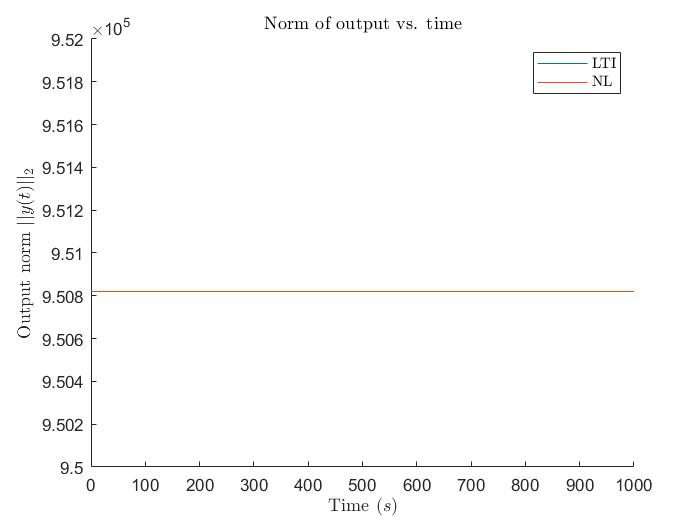
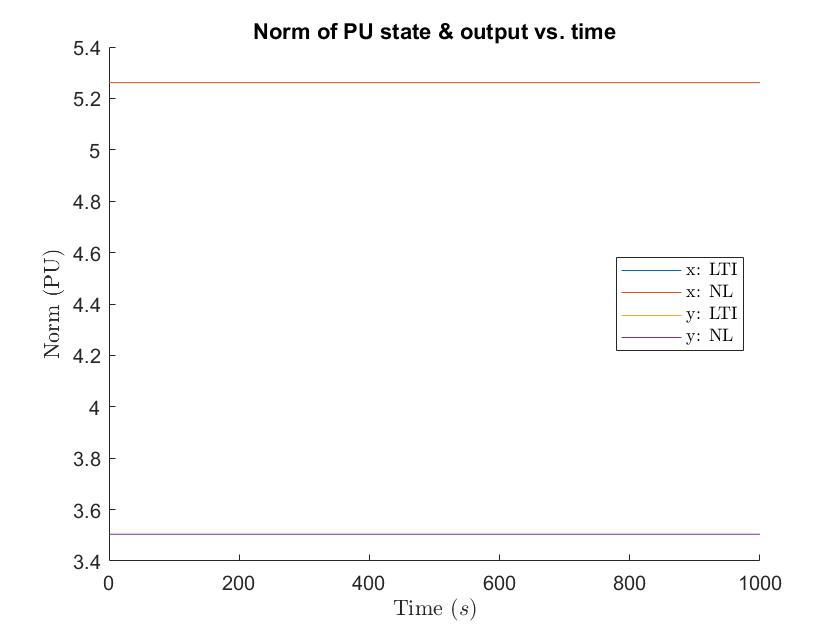
Plot and norm changes for draft

diff --git a/simNumerically.m b/simNumerically.m
@@ -31,13 +31,15 @@ tf1 = 1000; % stop time [sec]
 
 figure();
 hold on;
-plot(t_lti1, getNorm(y_lti1,2), 'DisplayName', 'LTI')
-plot(t_nl1, getNorm(y_nl1,2), 'DisplayName', 'NL')
-title('Norm of output vs. time', 'Interpreter','latex')
+plot(t_lti1, getNorm(x_lti1./x_B,2), 'DisplayName', 'x: LTI')
+plot(t_nl1, getNorm(x_nl1./x_B,2), 'DisplayName', 'x: NL')
+plot(t_lti1, getNorm(y_lti1./y_B,2), 'DisplayName', 'y: LTI')
+plot(t_nl1, getNorm(y_nl1./y_B,2), 'DisplayName', 'y: NL')
+title('Norm of PU state & output vs. time')%, 'Interpreter','latex')
 xlabel('Time $(s)$', 'Interpreter','latex')
-ylabel('Output norm $||y(t)||_2$', 'Interpreter','latex')
-ylim([9.5e5, 9.52e5])
-legend('Interpreter','latex')
+ylabel('Norm (PU)', 'Interpreter','latex')
+%ylim([9.5e5, 9.52e5])
+legend('Interpreter','latex','location','east')
 
 
 
@@ -200,11 +202,17 @@ xlabel('Time (s)', 'Interpreter', 'latex')
 sgtitle('PU outputs vs time with torque step')
 %xlabel('Time (s)', 'Interpreter', 'latex')
 
-%% calculate pu norm of error between nominal operating point and end of trajectory
-Xerror_lti = norm(xn_lti2(:,end)-X_pu,2)
-Xerror_nl = norm(xn_nl2(:,end)-X_pu,2)
-Yerror_lti = norm(yn_lti2(:,end)-Y_pu,2)
-Yerror_nl = norm(yn_nl2(:,end)-Y_pu,2)
+%% calculate final pu norm
+Xnorm_lti = norm(xn_lti2(:,end),2)
+Xnorm_nl = norm(xn_nl2(:,end),2)
+Ynorm_lti = norm(yn_lti2(:,end),2)
+Ynorm_nl = norm(yn_nl2(:,end),2)
+
+% normalize error between pu norms to a percent
+Xerror_lti = norm((xn_lti2(:,end)-X_pu)/X_pu,2)
+Xerror_nl = norm((xn_nl2(:,end)-X_pu)/X_pu,2)
+Yerror_lti = norm((yn_lti2(:,end)-Y_pu)/Y_pu,2)
+Yerror_nl = norm((yn_nl2(:,end)-Y_pu)/Y_pu,2)
 
 
 %% simulate a step increase in Mfe to 1% beyond rated value

diff --git a/simClosedLoopPcontroller.m b/simClosedLoopPcontroller.m
@@ -101,9 +101,18 @@ end
 sgtitle('PU outputs vs time with torque step')
 xlabel('Time (s)', 'Interpreter', 'latex')
 
-%% calculate pu norm of error between nominal operating point and end of trajectory
-Xerror_lti = norm(xn_lti2(:,end)-X_pu,2)
-Xerror_nl = norm(xn_nl2(:,end)-X_pu,2)
-Yerror_lti = norm(yn_lti2(:,end)-Y_pu,2)
-Yerror_nl = norm(yn_nl2(:,end)-Y_pu,2)
+%% calculate final pu norm
+Xnorm_lti = norm(xn_lti2(:,end),2)
+Xnorm_nl = norm(xn_nl2(:,end),2)
+Ynorm_lti = norm(yn_lti2(:,end),2)
+Ynorm_nl = norm(yn_nl2(:,end),2)
 
+% normalize error between norms to a percent
+Xerror_lti = norm((xn_lti2(:,end)-X_pu)/X_pu,2)
+Xerror_nl = norm((xn_nl2(:,end)-X_pu)/X_pu,2)
+Yerror_lti = norm((yn_lti2(:,end)-Y_pu)/Y_pu,2)
+Yerror_nl = norm((yn_nl2(:,end)-Y_pu)/Y_pu,2)
+
+% output gain matrix K to Latex for report
+Kdisp = vpa(sym(K),3);
+latex(Kdisp)
